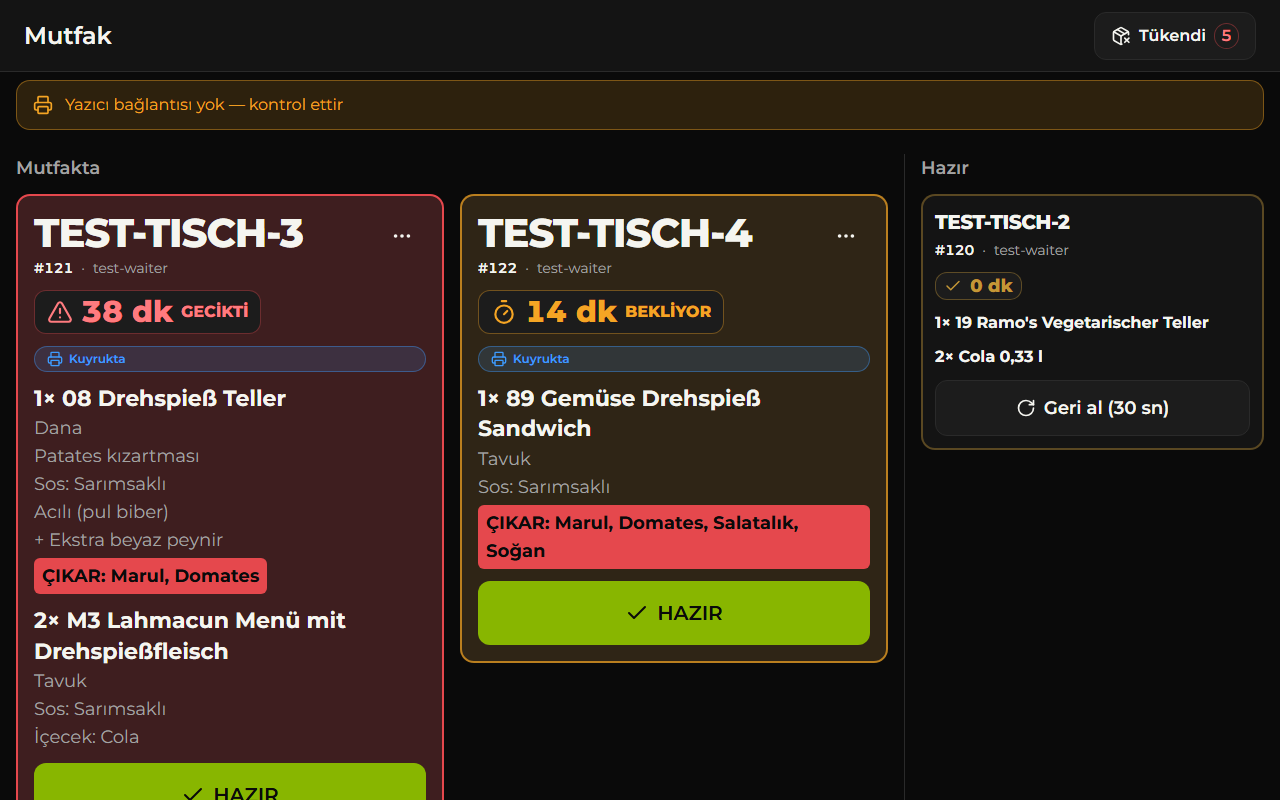
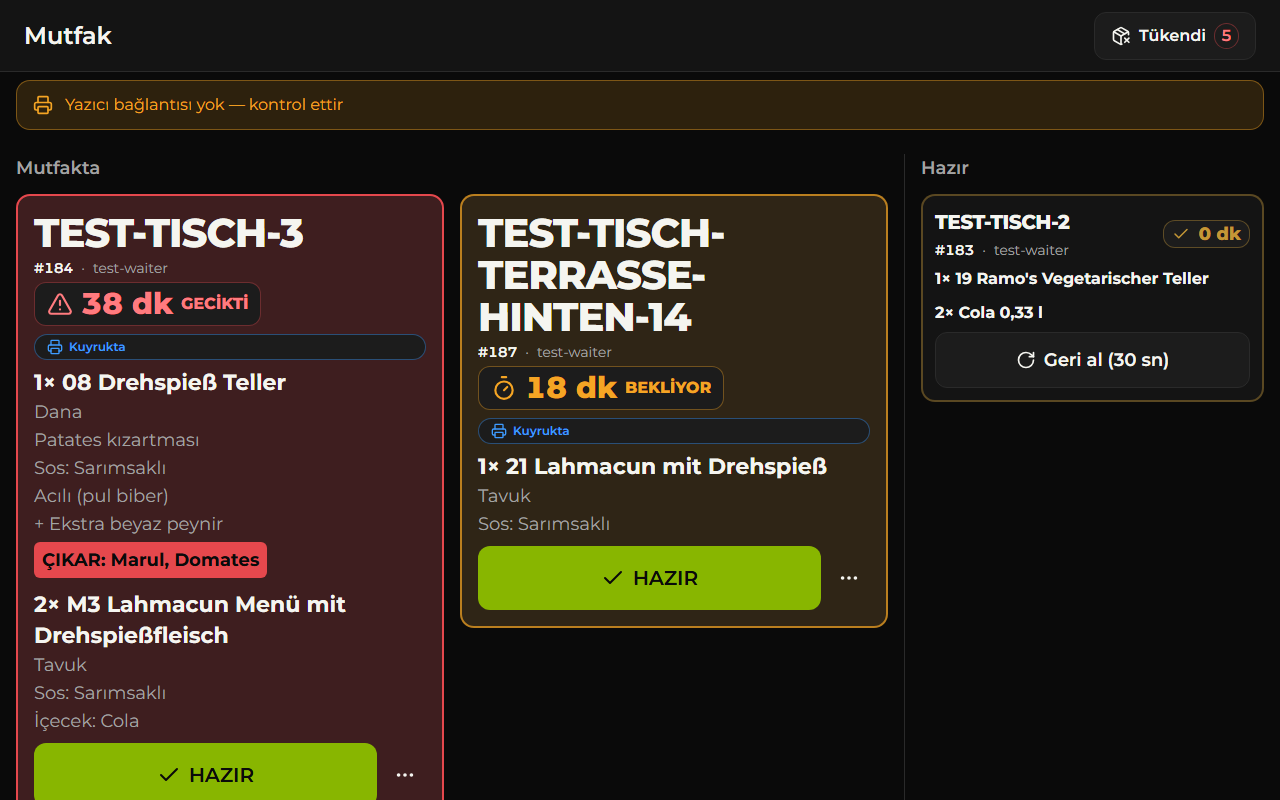
test(kitchen): M4 kapısı 3. tur — R1 kapandı, R3 ölçüldü, KDS görüntüleri yenilendi
Dar kapsam: yalnız KDS ekranları (M3'e dokunulmadı, 2. turda geçti).

R1 KAPANDI: m4-kitchen / m4-soldout / m4-ready üçünde de axe 0 ihlal, 0 inceleme —
2. turdaki `.border-info/40.bg-info/15.text-info` düğümleri kayboldu.

R3 iddiası TUTMADI (gerçek tarayıcı ölçümü): geç kart 651 → 631 px (iddia ~587),
tam görünen aktif kart hâlâ 1 (iddia 2), HAZIR düğmesinin alt kenarı 807 px — yani
katlamanın 7 px ALTINDA (iddia 58 px üstünde). Sığmayan şey krom değil içerik:
iki kalemli + 5 seçenek satırlı + ÇIKAR bloklu kart. Bilgi kaybı ve erişilebilirlik
ihlali yok, madde YÜKSEK'ten ORTA'ya indi; M4 kararı GEÇTİ.

Sahneye uzun adlı bir masa eklendi (`Test-Tisch-Terrasse-Hinten-14`): süre kutusunun
başlık satırına taşınması uzun adda kırpma ya da taşma yapmıyor (başlık 3 satır /
126 px, süre kutusu alt satıra iniyor, sağda 18 px pay).

Ajan başlatılmadı, `settings` okunmadı/yazılmadı; sahne verisi testin sonunda geri
alındı (print_jobs/orders/table_sessions 0).

Ölçümler, axe tablosu ve nihai karar:
`.superpowers/sdd/2026-09-15-ramos-plan-2-giris-ve-garson/design-gate-m3-m4.md`

diff --git a/apps/web/e2e/design-gate.spec.ts b/apps/web/e2e/design-gate.spec.ts
@@ -176,7 +176,10 @@ async function seedScene(): Promise<Scene> {
 
   await sql(`
     insert into public.dining_tables (name, sort) values
-      ('Test-Tisch-3', 902), ('Test-Tisch-4', 903), ('Test-Tisch-5', 904)
+      ('Test-Tisch-3', 902), ('Test-Tisch-4', 903), ('Test-Tisch-5', 904),
+      -- 3. tur: KDS kart başlığının stres testi. R3 düzeltmesi süre kutusunu masa adının
+      -- KARŞISINA aldı; uzun bir ad süre kutusunu alt satıra itmeli, kırpmamalı.
+      ('Test-Tisch-Terrasse-Hinten-14', 905)
     on conflict (name) do update set is_active = true;`);
 
   const tableRows = await sql<{ name: string; id: string }>(
@@ -257,11 +260,15 @@ async function seedScene(): Promise<Scene> {
   ]);
   const warnId = await submit(tableIds['Test-Tisch-4']!, [buildItem(menu.get('89')!, { quantity: 1, removed: 4 })]);
   await submit(tableIds['Test-Tisch-5']!, [buildItem(menu.get('21')!, { quantity: 4 })], 'schnell bitte');
+  const longNameId = await submit(tableIds['Test-Tisch-Terrasse-Hinten-14']!, [
+    buildItem(menu.get('21')!, { quantity: 1 }),
+  ]);
 
   // Süre tonlarını görebilmek için zaman damgaları geriye alınır (service_role; yalnız test verisi).
   await sql(`
     update public.orders set created_at = now() - interval '38 minutes' where id = '${lateId}';
     update public.orders set created_at = now() - interval '14 minutes' where id = '${warnId}';
+    update public.orders set created_at = now() - interval '18 minutes' where id = '${longNameId}';
     update public.table_sessions ts set opened_at = now() - interval '52 minutes'
       from public.dining_tables t where t.id = ts.table_id and t.name = 'Test-Tisch';
     update public.table_sessions ts set opened_at = now() - interval '41 minutes'
@@ -293,7 +300,8 @@ async function teardownScene(scene: Scene | null): Promise<void> {
   }
   await cleanupFixtureOrders();
   await sql(`
-    delete from public.dining_tables where name in ('Test-Tisch-3', 'Test-Tisch-4', 'Test-Tisch-5');
+    delete from public.dining_tables
+      where name in ('Test-Tisch-3', 'Test-Tisch-4', 'Test-Tisch-5', 'Test-Tisch-Terrasse-Hinten-14');
     update public.profiles set locale = 'tr' where username like 'test-%' and locale <> 'tr';`);
 }
 
@@ -479,18 +487,48 @@ test('M4 kapısı: KDS dolu mutfak ekranı — görüntüler + WCAG AA', async (
     // 1 — dolu mutfak: birden çok kart, geç kalmış kart (kırmızı kart tonu), HAZIR sütunu
     await expect(page.getByRole('button', { name: /^HAZIR$|^FERTIG$/ }).first()).toBeVisible();
     await expect(page.locator('section > ul > li[data-tone="late"]')).toHaveCount(1);
-    await expect(page.locator('section > ul > li[data-tone="warn"]')).toHaveCount(1);
+    await expect(page.locator('section > ul > li[data-tone="warn"]')).toHaveCount(2);
     await page.screenshot({ path: SHOT('m4-kds-1280.png') });
     await scan(page, 'm4-kitchen');
-    // R2: renkli kart zeminleri kalabalık ekranda gürültü yapıyor mu — kaç kart renkli?
+
+    /*
+     * 3. tur — R3 iddiasının GERÇEK tarayıcı ölçümü (hesap değil):
+     *   "kart 651 → ~587 px, HAZIR düğmesi katlamanın ~58 px üstünde, ilk satırdaki 2 kart tam
+     *    görünüyor". Ayrıca renkli zemin dağılımı (gürültü sorusu) ve uzun masa adının kart
+     *   başlığında sarma/kırpma yapıp yapmadığı.
+     */
     const cardBoxes = await boxes(page, 'section > ul > li[data-tone]');
+    const lateCard = page.locator('section > ul > li[data-tone="late"]');
+    const lateReady = await lateCard.getByRole('button', { name: /^HAZIR$|^FERTIG$/ }).boundingBox();
+    const lateBox = (await boxes(page, 'section > ul > li[data-tone="late"]'))[0];
     logMetrics('KDS kartları', {
       aktifKart: cardBoxes.length,
       ok: await page.locator('section > ul > li[data-tone="ok"]').count(),
       warn: await page.locator('section > ul > li[data-tone="warn"]').count(),
       late: await page.locator('section > ul > li[data-tone="late"]').count(),
-      ilkKartYüksekliği: cardBoxes[0]?.height ?? null,
+      geçKartYüksekliği: lateBox?.height ?? null,
+      kartYükseklikleri: cardBoxes.map((b) => b.height),
       tamGörünenKart: fullyVisible(cardBoxes, 800),
+      hazırDüğmesiAltKenarı: lateReady ? Math.round(lateReady.y + lateReady.height) : null,
+      katlamayaUzaklık: lateReady ? 800 - Math.round(lateReady.y + lateReady.height) : null,
+    });
+
+    // Uzun masa adı: başlık kırpılıyor mu, süre kutusu alt satıra mı iniyor, kart büyüyor mu?
+    const longCard = page.locator('section > ul > li[data-tone]').filter({ hasText: 'TERRASSE' });
+    const longBox = (await longCard.boundingBox()) ?? null;
+    const longTitle = await longCard.locator('span[lang="de"]').first().boundingBox();
+    const longElapsed = await longCard.locator('[data-testid="kds-elapsed"]').boundingBox();
+    // Karşılaştırma kısa adlı kartla: `warn` tonlu ilk kart UZUN adlı kartın kendisi
+    // (18 dk, sırada 2.) — referans olarak geç kart (TEST-TISCH-3) alınır.
+    const shortTitle = await lateCard.locator('span[lang="de"]').first().boundingBox();
+    logMetrics('uzun masa adı', {
+      ad: await longCard.locator('span[lang="de"]').first().innerText(),
+      kartYüksekliği: longBox ? Math.round(longBox.height) : null,
+      başlıkYüksekliği: longTitle ? Math.round(longTitle.height) : null,
+      kısaBaşlıkYüksekliği: shortTitle ? Math.round(shortTitle.height) : null,
+      süreKutusuAltSatırda:
+        longTitle && longElapsed ? longElapsed.y > longTitle.y + longTitle.height - 4 : null,
+      başlıkTaşması: longTitle && longBox ? Math.round(longBox.x + longBox.width - (longTitle.x + longTitle.width)) : null,
     });
 
     // 2 — tükendi çekmecesi (dolu)
